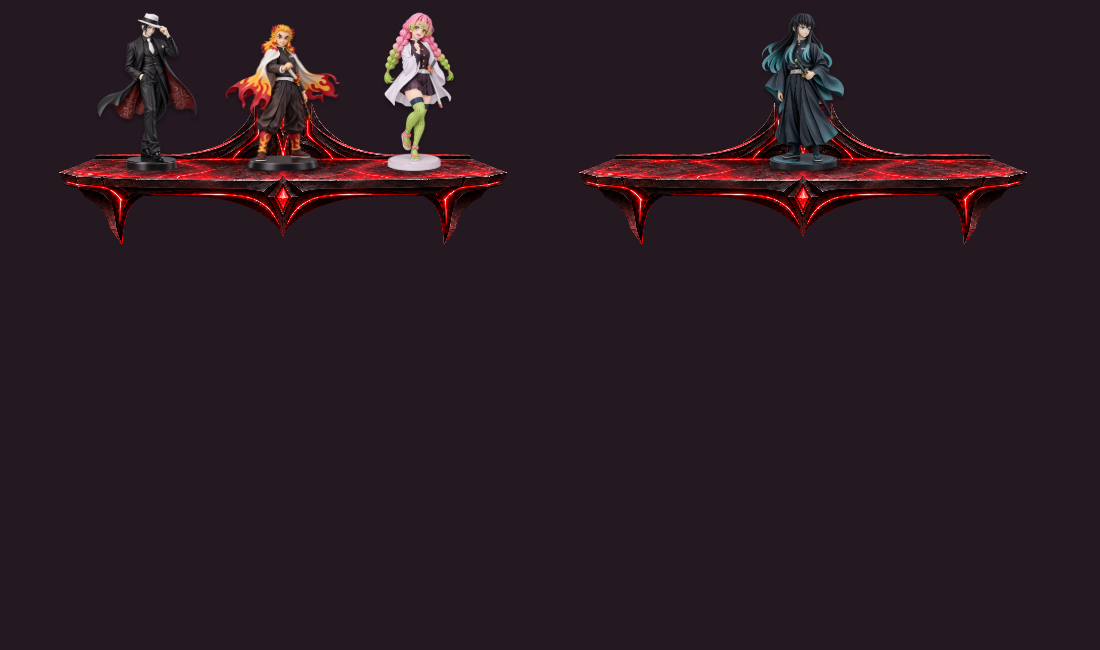
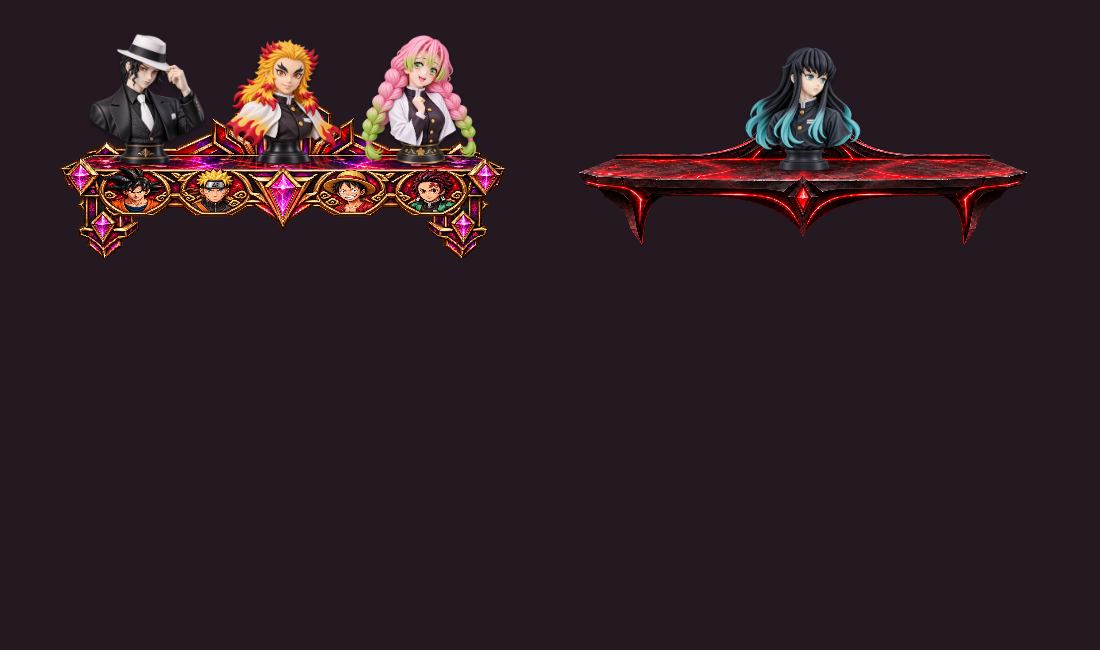
Add Anime Heroes shelf and replace Demon Slayer statues with detailed busts

Changed region(s): [[0.0309, 0.0, 0.4636, 0.4], [0.68, 0.0, 0.8036, 0.2769]]

diff --git a/collectible-shelf.js b/collectible-shelf.js
@@ -2,6 +2,7 @@
   'use strict';
   const themes = [
     {id:'crimson',name:'Crimson Original'},
+    {id:'anime-spirit',name:'Anime Heroes'},
     {id:'aurora',name:'Arctic Aurora'},
     {id:'honeybee',name:'Honeybee Garden'},
     {id:'volcanic',name:'Volcanic Forge'},
@@ -51,7 +52,7 @@
     ['Curios & Ornaments', ['rubber-duck','Rubber Duck'], ['origami-crane','Origami Crane'], ['ammonite','Ammonite Fossil'], ['geode','Blue Geode'], ['message-bottle','Message in a Bottle'], ['jewelry-box','Jeweled Trinket Box'], ['snowman','Snowman Figurine'], ['pumpkin-lantern','Pumpkin Lantern'], ['daisy-vase','Daisy Vase'], ['sandcastle','Sandcastle Keepsake']]
   ];
   rows.push(
-    ['Anime', ['muzan','Muzan Kibutsuji Statue'], ['rengoku','Kyojuro Rengoku Statue'], ['mitsuri','Mitsuri Kanroji Statue'], ['muichiro','Muichiro Tokito Statue']],
+    ['Anime', ['muzan','Muzan Kibutsuji Bust'], ['rengoku','Kyojuro Rengoku Bust'], ['mitsuri','Mitsuri Kanroji Bust'], ['muichiro','Muichiro Tokito Bust']],
     ['Anime', ['anya','Anya Forger Statue'], ['frieren','Frieren Statue'], ['gojo','Satoru Gojo Bust']],
     ['Character Collectibles', ['peppa','Peppa Pig Statue']],
     ['Character Collectibles', ['bluey','Bluey Statue'], ['sonic','Sonic Statue'], ['hello-kitty','Hello Kitty Statue']],
@@ -83,10 +84,10 @@
   const clean = value => valid(value) ? { enabled: value.enabled, slots: value.slots.map(id => replacements[id] || id), theme:value.theme || 'crimson' } : { enabled: true, slots: ['horse', 'crystal', 'planet'], theme:'crimson' };
   const name = id => items.find(item => item.id === id)?.name || 'Empty spot';
   const standalone = {
-    muzan: {source:'assets/shelf-muzan.png',width:1254,height:1254,bounds:[234,0,788,1238]},
-    rengoku: {source:'assets/shelf-rengoku.png',width:1254,height:1254,bounds:[158,17,946,1211]},
-    mitsuri: {source:'assets/shelf-mitsuri.png',width:1254,height:1254,bounds:[381,0,557,1252]},
-    muichiro: {source:'assets/shelf-muichiro.png',width:1254,height:1254,bounds:[315,9,649,1238]},
+    muzan: {source:'assets/shelf-muzan-bust.png',width:1254,height:1254,bounds:[115,25,1067,1206]},
+    rengoku: {source:'assets/shelf-rengoku-bust.png',width:1254,height:1254,bounds:[78,16,1130,1227]},
+    mitsuri: {source:'assets/shelf-mitsuri-bust.png',width:1188,height:1324,bounds:[12,8,1159,1300]},
+    muichiro: {source:'assets/shelf-muichiro-bust.png',width:1254,height:1254,bounds:[72,30,1110,1197]},
     gojo: {source:'assets/shelf-gojo.png',width:1254,height:1254,bounds:[244,31,748,1189]},
     peppa: {source:'assets/shelf-peppa.png',width:1254,height:1254,bounds:[257,22,729,1207]},
     anya: {source:'assets/shelf-anya.png',width:1254,height:1254,bounds:[279,4,677,1228]},

diff --git a/work/verify-demon-slayer.js b/work/verify-demon-slayer.js
@@ -8,7 +8,7 @@ const {chromium}=require('playwright'),shelf=require('../collectible-shelf');
  const page=await browser.newPage({viewport:{width:1100,height:650}});
  await page.route('http://art.local/**',r=>r.fulfill({body:fs.readFileSync(path.join(__dirname,'..',new URL(r.request().url()).pathname)),contentType:'image/png'}));
  const css=fs.readFileSync(path.join(__dirname,'../collectible-shelf.css'),'utf8');
- const configs=[{enabled:true,theme:'crimson',slots:['muzan','rengoku','mitsuri']},{enabled:true,theme:'crimson',slots:['none','muichiro','none']}];
+ const configs=[{enabled:true,theme:'anime-spirit',slots:['muzan','rengoku','mitsuri']},{enabled:true,theme:'crimson',slots:['none','muichiro','none']}];
  configs.forEach(c=>assert(shelf.valid(c)));
  await page.setContent('<base href="http://art.local/"><style>'+css+'body{background:#241821;color:white;padding:50px;display:flex;gap:70px}section{width:450px}</style>'+configs.map(c=>'<section>'+shelf.art(c)+'</section>').join(''));
  await page.waitForTimeout(800);
@@ -16,4 +16,3 @@ const {chromium}=require('playwright'),shelf=require('../collectible-shelf');
  console.log('All four Demon Slayer collectibles validate and render.');
  }finally{await browser.close();}
 })().catch(e=>{console.error(e);process.exitCode=1;});
-

diff --git a/collectible-shelf.css b/collectible-shelf.css
@@ -59,6 +59,9 @@
 [data-shelf-theme="autumn"] > .shelf-board { background-image:url('assets/collectible-shelf-autumn.png'); }
 [data-shelf-theme="porcelain"] > .shelf-board { background-image:url('assets/collectible-shelf-porcelain.png'); }
 .shelf-theme-grid { display:grid; grid-template-columns:repeat(3,minmax(0,1fr)); gap:8px; }
+.collectible-shelf[data-shelf-theme="anime-spirit"] { aspect-ratio:1448 / 888; --shelf-surface-top:.48; --shelf-surface-bottom:.564; }
+.collectible-shelf[data-shelf-theme="anime-spirit"] > .shelf-board { background-image:url('assets/collectible-shelf-anime-spirit.png'); background-size:100% 122.2973%; background-position:50% 0%; }
+.collectible-shelf[data-shelf-theme="anime-spirit"] > .shelf-objects { bottom:45.946%; }
 /* These variants retain the porcelain shelf's tabletop and silhouette. */
 .collectible-shelf[data-shelf-theme]:is([data-shelf-theme="honeybee"],[data-shelf-theme="volcanic"],[data-shelf-theme="aurora"]) { aspect-ratio:1448 / 888; --shelf-surface-top:.48; --shelf-surface-bottom:.564; }
 .collectible-shelf[data-shelf-theme]:is([data-shelf-theme="honeybee"],[data-shelf-theme="volcanic"],[data-shelf-theme="aurora"]) > .shelf-board { background-size:100% 122.2973%; background-position:50% 0%; }

diff --git a/index.html b/index.html
@@ -13,7 +13,7 @@
   <link rel="stylesheet" href="styles.css?v=20260922-corner-v40">
   <link rel="stylesheet" href="launchpad-scenes.css?v=20260922-scenes-v38">
   <link rel="stylesheet" href="scene-frame-fit.css?v=20260920-fit-v3">
-  <link rel="stylesheet" href="collectible-shelf.css?v=20260922-v16">
+  <link rel="stylesheet" href="collectible-shelf.css?v=20260924-v17">
 </head>
 <body>
   <main id="app" class="app-shell"></main>
@@ -24,7 +24,7 @@
 
   <script src="launchpad-scenes.js?v=20260922-scenes-v38"></script>
   <script src="profile-banners.js?v=20260922-v5"></script>
-<script src="collectible-shelf.js?v=20260924-v22"></script>
+<script src="collectible-shelf.js?v=20260924-v23"></script>
   <script src="app.js?v=20260924-spotlight-v65"></script>
   <script src="colt-assistant.js?v=20260905-lazy-artwork-v2"></script>
   <script src="colt-radio.js?v=20260919-world-radio-v23"></script>

diff --git a/work/anime-busts-art.md b/work/anime-busts-art.md
@@ -1,0 +1,33 @@
+# Anime Spirit shelf and Demon Slayer busts
+
+Built-in image-generation tool used for all five edits. Transparent PNGs preserved. Existing character IDs retained so saved shelves update automatically.
+
+## muzan
+Saved: C:/Users/Sinister/Documents/GitHub/Classroom-Launchpad/assets/shelf-muzan-bust.png
+
+Prompt: Use case: precise-object-edit. Transform the attached muzan Demon Slayer collectible into a premium head-and-shoulders resin BUST, not a full body statue. Preserve recognizable face, hairstyle, colors and clothing identity. Large finely detailed face prominently occupying upper half; shoulders and upper chest only, ending on a short elegant flat-bottom dark pedestal. No waist, legs or tall stand. Front-facing with slight three-quarter depth, balanced narrow silhouette to fit a shelf slot. Entire hair/hat and base within canvas with 4 percent safe margins. Soft studio illumination, crisp painted resin detail. Genuinely transparent alpha background, no floor, text or watermark. 
+
+## rengoku
+Saved: C:/Users/Sinister/Documents/GitHub/Classroom-Launchpad/assets/shelf-rengoku-bust.png
+
+Prompt: Use case: precise-object-edit. Transform the attached rengoku Demon Slayer collectible into a premium head-and-shoulders resin BUST, not a full body statue. Preserve recognizable face, hairstyle, colors and clothing identity. Large finely detailed face prominently occupying upper half; shoulders and upper chest only, ending on a short elegant flat-bottom dark pedestal. No waist, legs or tall stand. Front-facing with slight three-quarter depth, balanced narrow silhouette to fit a shelf slot. Entire hair/hat and base within canvas with 4 percent safe margins. Soft studio illumination, crisp painted resin detail. Genuinely transparent alpha background, no floor, text or watermark. 
+
+## mitsuri
+Saved: C:/Users/Sinister/Documents/GitHub/Classroom-Launchpad/assets/shelf-mitsuri-bust.png
+
+Prompt: Use case: precise-object-edit. Transform the attached mitsuri Demon Slayer collectible into a premium head-and-shoulders resin BUST, not a full body statue. Preserve recognizable face, hairstyle, colors and clothing identity. Large finely detailed face prominently occupying upper half; shoulders and upper chest only, ending on a short elegant flat-bottom dark pedestal. No waist, legs or tall stand. Front-facing with slight three-quarter depth, balanced narrow silhouette to fit a shelf slot. Entire hair/hat and base within canvas with 4 percent safe margins. Soft studio illumination, crisp painted resin detail. Genuinely transparent alpha background, no floor, text or watermark. Her dark uniform MUST be opaque fully buttoned to a high collar, entirely covered chest, NO cleavage or chest opening; preserve white haori and pink-green braids.
+
+## muichiro
+Saved: C:/Users/Sinister/Documents/GitHub/Classroom-Launchpad/assets/shelf-muichiro-bust.png
+
+Prompt: Use case: precise-object-edit. Transform the attached muichiro Demon Slayer collectible into a premium head-and-shoulders resin BUST, not a full body statue. Preserve recognizable face, hairstyle, colors and clothing identity. Large finely detailed face prominently occupying upper half; shoulders and upper chest only, ending on a short elegant flat-bottom dark pedestal. No waist, legs or tall stand. Front-facing with slight three-quarter depth, balanced narrow silhouette to fit a shelf slot. Entire hair/hat and base within canvas with 4 percent safe margins. Soft studio illumination, crisp painted resin detail. Genuinely transparent alpha background, no floor, text or watermark. 
+
+## Anime Heroes (final character revision)
+Final artwork includes Goku, Naruto, Luffy and Tanjiro portrait reliefs on the front panels. The initial floral-only variant is not used.
+
+Final edit prompt: Edit this decorative shelf to feature actual recognizable popular anime characters as detailed colorful sculpted portrait relief medallions BUILT INTO THE FRONT FASCIA below the tabletop: Goku from Dragon Ball (black spiky hair, orange gi), Naruto Uzumaki (blond spiky hair, Leaf headband), Monkey D. Luffy from One Piece (straw hat, smile), and Tanjiro Kamado from Demon Slayer (burgundy hair, forehead scar, green checkered haori). Place four clearly legible prominent face-and-shoulder reliefs across front panels, two on each side of central gem. Replace most floral engravings with these portraits. Not separate statues on top. Preserve exact shelf geometry, perspective, level empty tabletop, dark lacquer red-violet gold materials, full silhouette and transparent alpha background. No text or logos. Do not change canvas size or position.
+
+### Initial design prompt
+Saved: C:/Users/Sinister/Documents/GitHub/Classroom-Launchpad/assets/collectible-shelf-anime-spirit.png
+
+Prompt: Use case: precise-object-edit. Retheme this decorative shelf as Anime Spirit: glossy black lacquer, red and violet glowing energy inlays, gold edging, stylized sakura petals and swirling clouds engraved into front panels, central luminous magenta crystal. Keep EXACT same shelf silhouette, canvas dimensions, perspective, board position and flat level top surface; do not move or resize shelf. Replace snowflake ornament with anime-inspired petal/cloud engraving. No characters or objects on shelf. Transparent alpha background, no scenery, text, floor or shadow outside shelf. Premium detailed 3D game decoration.
